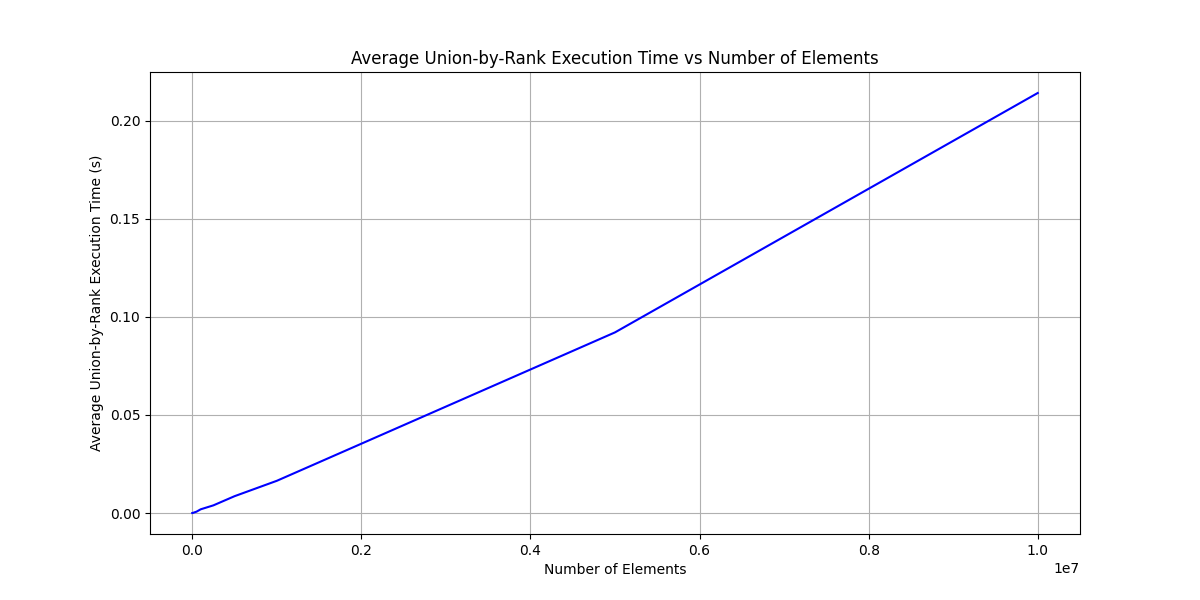
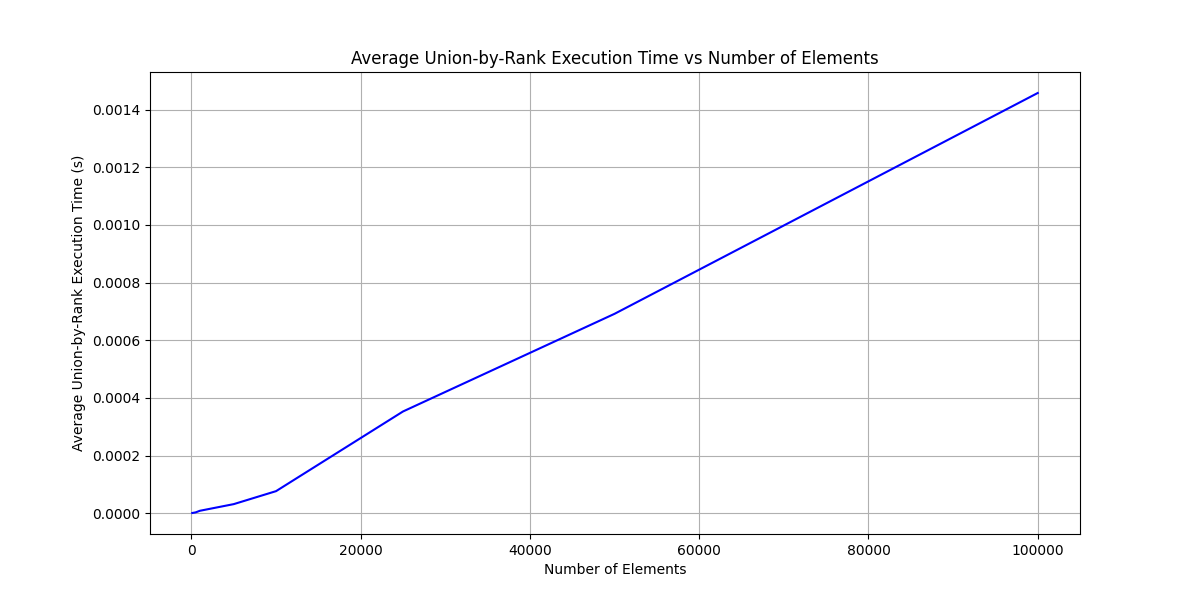
new basic union and validation check

diff --git a/Assignment 3/disjoint_set.cpp b/Assignment 3/disjoint_set.cpp
@@ -46,21 +46,38 @@ Element* FindSet(Element* elem) {
     }
     return elem;
 }
-// Basic Union operation
+
+// Brute-force Basic Union operation
 void BasicUnion(Element* elem1, Element* elem2) {
     Element* root1 = FindSet(elem1);
     Element* root2 = FindSet(elem2);
 
-    if (root1 == root2) return;
+    // If they are already in the same set, still go through the brute-force process
+    Set* set1 = root1->owner;
+    Set* set2 = root2->owner;
 
-    Element* current = root2;
-    while (current != nullptr) {
-        current->owner = root1->owner;
-        Element* temp = current->next;
-        delete current;
-        current = temp;
+    Element* current1 = set1->head;
+    while (current1 != nullptr) {
+        current1->parent = root1;  // Re-assign parent pointers in set1 to root1 (even if already correct)
+        current1 = current1->next;
+    }
+
+    Element* current2 = set2->head;
+    while (current2 != nullptr) {
+        current2->parent = root1;  // Re-assign parent pointers in set2 to root1
+        current2 = current2->next;
+    }
+
+    // Optionally merge set1 and set2 (can be done inefficiently by iterating again)
+    current1 = set1->head;
+    if (current1 != nullptr) {
+        while (current1->next != nullptr) {
+            current1 = current1->next;  // Move to the end of set1
+        }
+        current1->next = set2->head;  // Merge set2 at the end of set1
     }
 }
+
 
 // Weighted Union operation with tail pointer
 void WeightedUnion(Element* elem1, Element* elem2) {
@@ -78,7 +95,7 @@ void WeightedUnion(Element* elem1, Element* elem2) {
         Element* current = set2->head;
         while (current != nullptr) {
             current->owner = set1;
-            current->parent = set1->head;
+            current->parent = root1;  // Update parent to root1
             current = current->next;
         }
         set1->size += set2->size;
@@ -88,7 +105,7 @@ void WeightedUnion(Element* elem1, Element* elem2) {
         Element* current = set1->head;
         while (current != nullptr) {
             current->owner = set2;
-            current->parent = set2->head;
+            current->parent = root2;  // Update parent to root2
             current = current->next;
         }
         set2->size += set1->size;
@@ -120,6 +137,17 @@ void UnionByRank(Element* elem1, Element* elem2) {
     }
 }
 
+// Validation check to ensure all elements are in the same set
+bool validate_union(const vector<Element*>& elements) {
+    Element* representative = FindSet(elements[0]);
+    for (auto elem : elements) {
+        if (FindSet(elem) != representative) {
+            return false;
+        }
+    }
+    return true;
+}
+
 // Run experiment function
 void run_experiment(int n, ofstream &file, map<int, tuple<double, double, double>> &results) {
     vector<Element*> elements;
@@ -134,6 +162,11 @@ void run_experiment(int n, ofstream &file, map<int, tuple<double, double, double
     auto endUnion = chrono::high_resolution_clock::now();
     chrono::duration<double> union_elapsed_time = endUnion - startUnion;
 
+    // Validate the union operation
+    if (!validate_union(elements)) {
+        cerr << "Error: BasicUnion failed for " << n << " elements." << endl;
+    }
+
     elements.clear();
     for (int i = 0; i < n; i++) {
         elements.push_back(MakeSet(i)->head);
@@ -145,6 +178,11 @@ void run_experiment(int n, ofstream &file, map<int, tuple<double, double, double
     }
     auto endWeightedUnion = chrono::high_resolution_clock::now();
     chrono::duration<double> weighted_union_elapsed_time = endWeightedUnion - startWeightedUnion;
+
+    // Validate the union operation
+    if (!validate_union(elements)) {
+        cerr << "Error: WeightedUnion failed for " << n << " elements." << endl;
+    }
 
     elements.clear();
     for (int i = 0; i < n; i++) {
@@ -158,6 +196,11 @@ void run_experiment(int n, ofstream &file, map<int, tuple<double, double, double
     auto endUnionByRank = chrono::high_resolution_clock::now();
     chrono::duration<double> union_by_rank_elapsed_time = endUnionByRank - startUnionByRank;
 
+    // Validate the union operation
+    if (!validate_union(elements)) {
+        cerr << "Error: UnionByRank failed for " << n << " elements." << endl;
+    }
+
     file << n << "," << union_elapsed_time.count() <<  "," << weighted_union_elapsed_time.count() << "," << union_by_rank_elapsed_time.count() << endl;
     results[n] = make_tuple(union_elapsed_time.count(), weighted_union_elapsed_time.count(), union_by_rank_elapsed_time.count());
 
@@ -168,7 +211,7 @@ void run_experiment(int n, ofstream &file, map<int, tuple<double, double, double
 
 // Main function with averaging and output to a separate CSV file
 int main() {
-    int num_elements[] = {100, 500, 1000, 5000, 10000, 25000, 50000, 100000, 250000, 500000, 1000000, 5000000, 10000000};
+    int num_elements[] = {100, 500, 1000, 5000, 10000, 25000, 50000, 100000};
     int num_runs = 5;
 
     ofstream file("disjoint_set_experiment.csv");
@@ -199,8 +242,6 @@ int main() {
 
     file.close();
     avg_file.close();
-
-    cout << "Experiment completed. Results saved to disjoint_set_experiment.csv and disjoint_set_average_results.csv" << endl;
 
     return 0;
 }

diff --git a/Assignment 3/percentage_improvement.py b/Assignment 3/percentage_improvement.py
@@ -1,7 +1,6 @@
 import pandas as pd
 import matplotlib.pyplot as plt
 
-# Step 1: Read the CSV file
 df = pd.read_csv('Assignment 3/disjoint_set_average_results.csv')
 
 union_time = df['Average Union Execution time']
@@ -10,20 +9,41 @@ union_by_rank_time = df['Average Union-by-Rank Execution time']
 
 weighted_union_percentage = ((union_time - weighted_union_time) / union_time) * 100
 union_by_rank_percentage = ((union_time - union_by_rank_time) / union_time) * 100
+union_by_rank_over_weighted_union_percentage = ((weighted_union_time - union_by_rank_time) / weighted_union_time) * 100
 
+implementations = ['Weighted Union over Union', 'Union-by-Rank over Union', 'Union-by-Rank over Weighted Union']
+percentages_last = [
+    weighted_union_percentage.iloc[-1], 
+    union_by_rank_percentage.iloc[-1], 
+    union_by_rank_over_weighted_union_percentage.iloc[-1]
+]
 
-implementations = ['Weighted Union', 'Union-by-Rank']
-percentages = [weighted_union_percentage.iloc[-1], union_by_rank_percentage.iloc[-1]]
+percentages_small = [
+    weighted_union_percentage.iloc[0], 
+    union_by_rank_percentage.iloc[0], 
+    union_by_rank_over_weighted_union_percentage.iloc[0]
+]
 
 plt.figure(figsize=(10, 6))
-bars = plt.bar(implementations, percentages, color=['green', 'blue'])
+bars = plt.bar(implementations, percentages_small, color=['seagreen', 'darkblue', 'coral'])
 
 for bar in bars:
     yval = bar.get_height()
     plt.text(bar.get_x() + bar.get_width()/2, yval, f'{round(yval, 2)}%', ha='center', va='bottom')
 
-plt.xlabel('Implementation')
-plt.ylabel('Percentage Faster than Union (%)')
-plt.title('Percentage Improvement of Weighted Union and Union-by-Rank over Union')
-plt.savefig('Assignment 3/Graphs/percentage_improvement.png')
+plt.ylabel('Percentage Faster (%)')
+plt.title('Percentage Improvement of Weighted Union and Union-by-Rank Operations for small n (n = 100)')
+plt.savefig('Assignment 3/Graphs/percentage_improvement_small.png')
+plt.show()
+
+plt.figure(figsize=(10, 6))
+bars = plt.bar(implementations, percentages_last, color=['seagreen', 'darkblue', 'coral'])
+
+for bar in bars:
+    yval = bar.get_height()
+    plt.text(bar.get_x() + bar.get_width()/2, yval, f'{round(yval, 2)}%', ha='center', va='bottom')
+
+plt.ylabel('Percentage Faster (%)')
+plt.title('Percentage Improvement of Weighted Union and Union-by-Rank Operations for large n (n = 100000)')
+plt.savefig('Assignment 3/Graphs/percentage_improvement_large.png')
 plt.show()

diff --git a/Assignment 3/plot.py b/Assignment 3/plot.py
@@ -43,8 +43,11 @@ sns.lineplot(data=data, x='Number of elements', y='Average Weighted Union Execut
 sns.lineplot(data=data, x='Number of elements', y='Average Union-by-Rank Execution time', color='blue', label='Union by Rank')
 plt.title('Average Execution Time vs Number of Elements')
 plt.xlabel('Number of Elements')
+plt.yscale('log')
+plt.xscale('log')
 plt.ylabel('Average Execution Time (s)')
 plt.legend(title='Method')
 plt.grid(True)
+plt.tick_params(axis='x', which='minor', bottom=False)
 plt.savefig('Assignment 3/Graphs/average_execution_time.png')
 plt.show()
